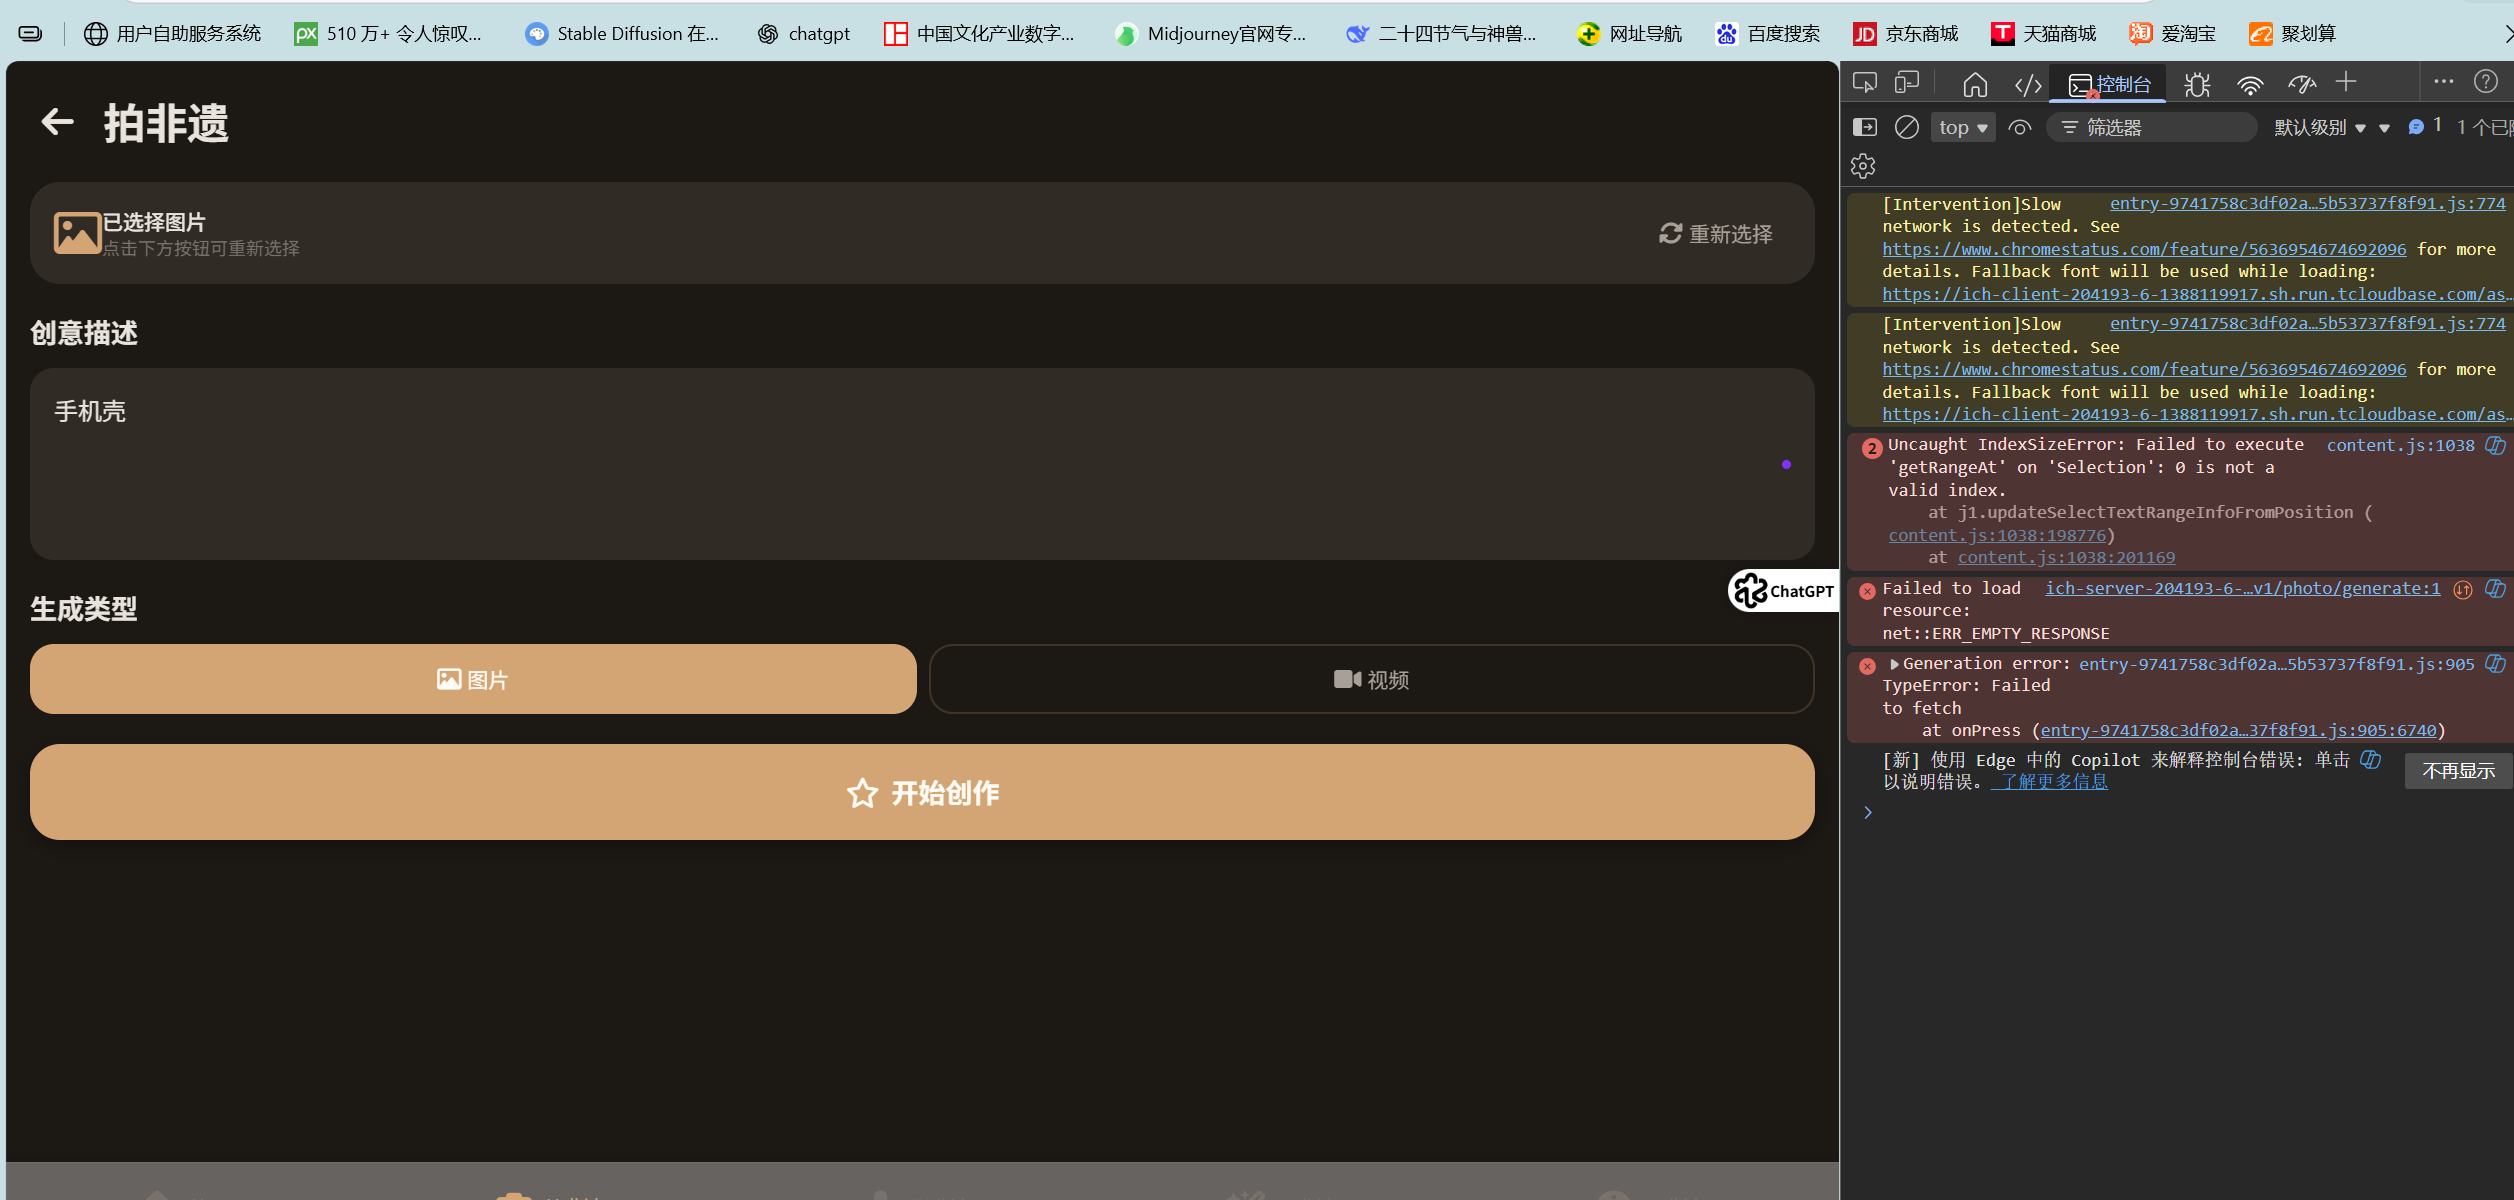
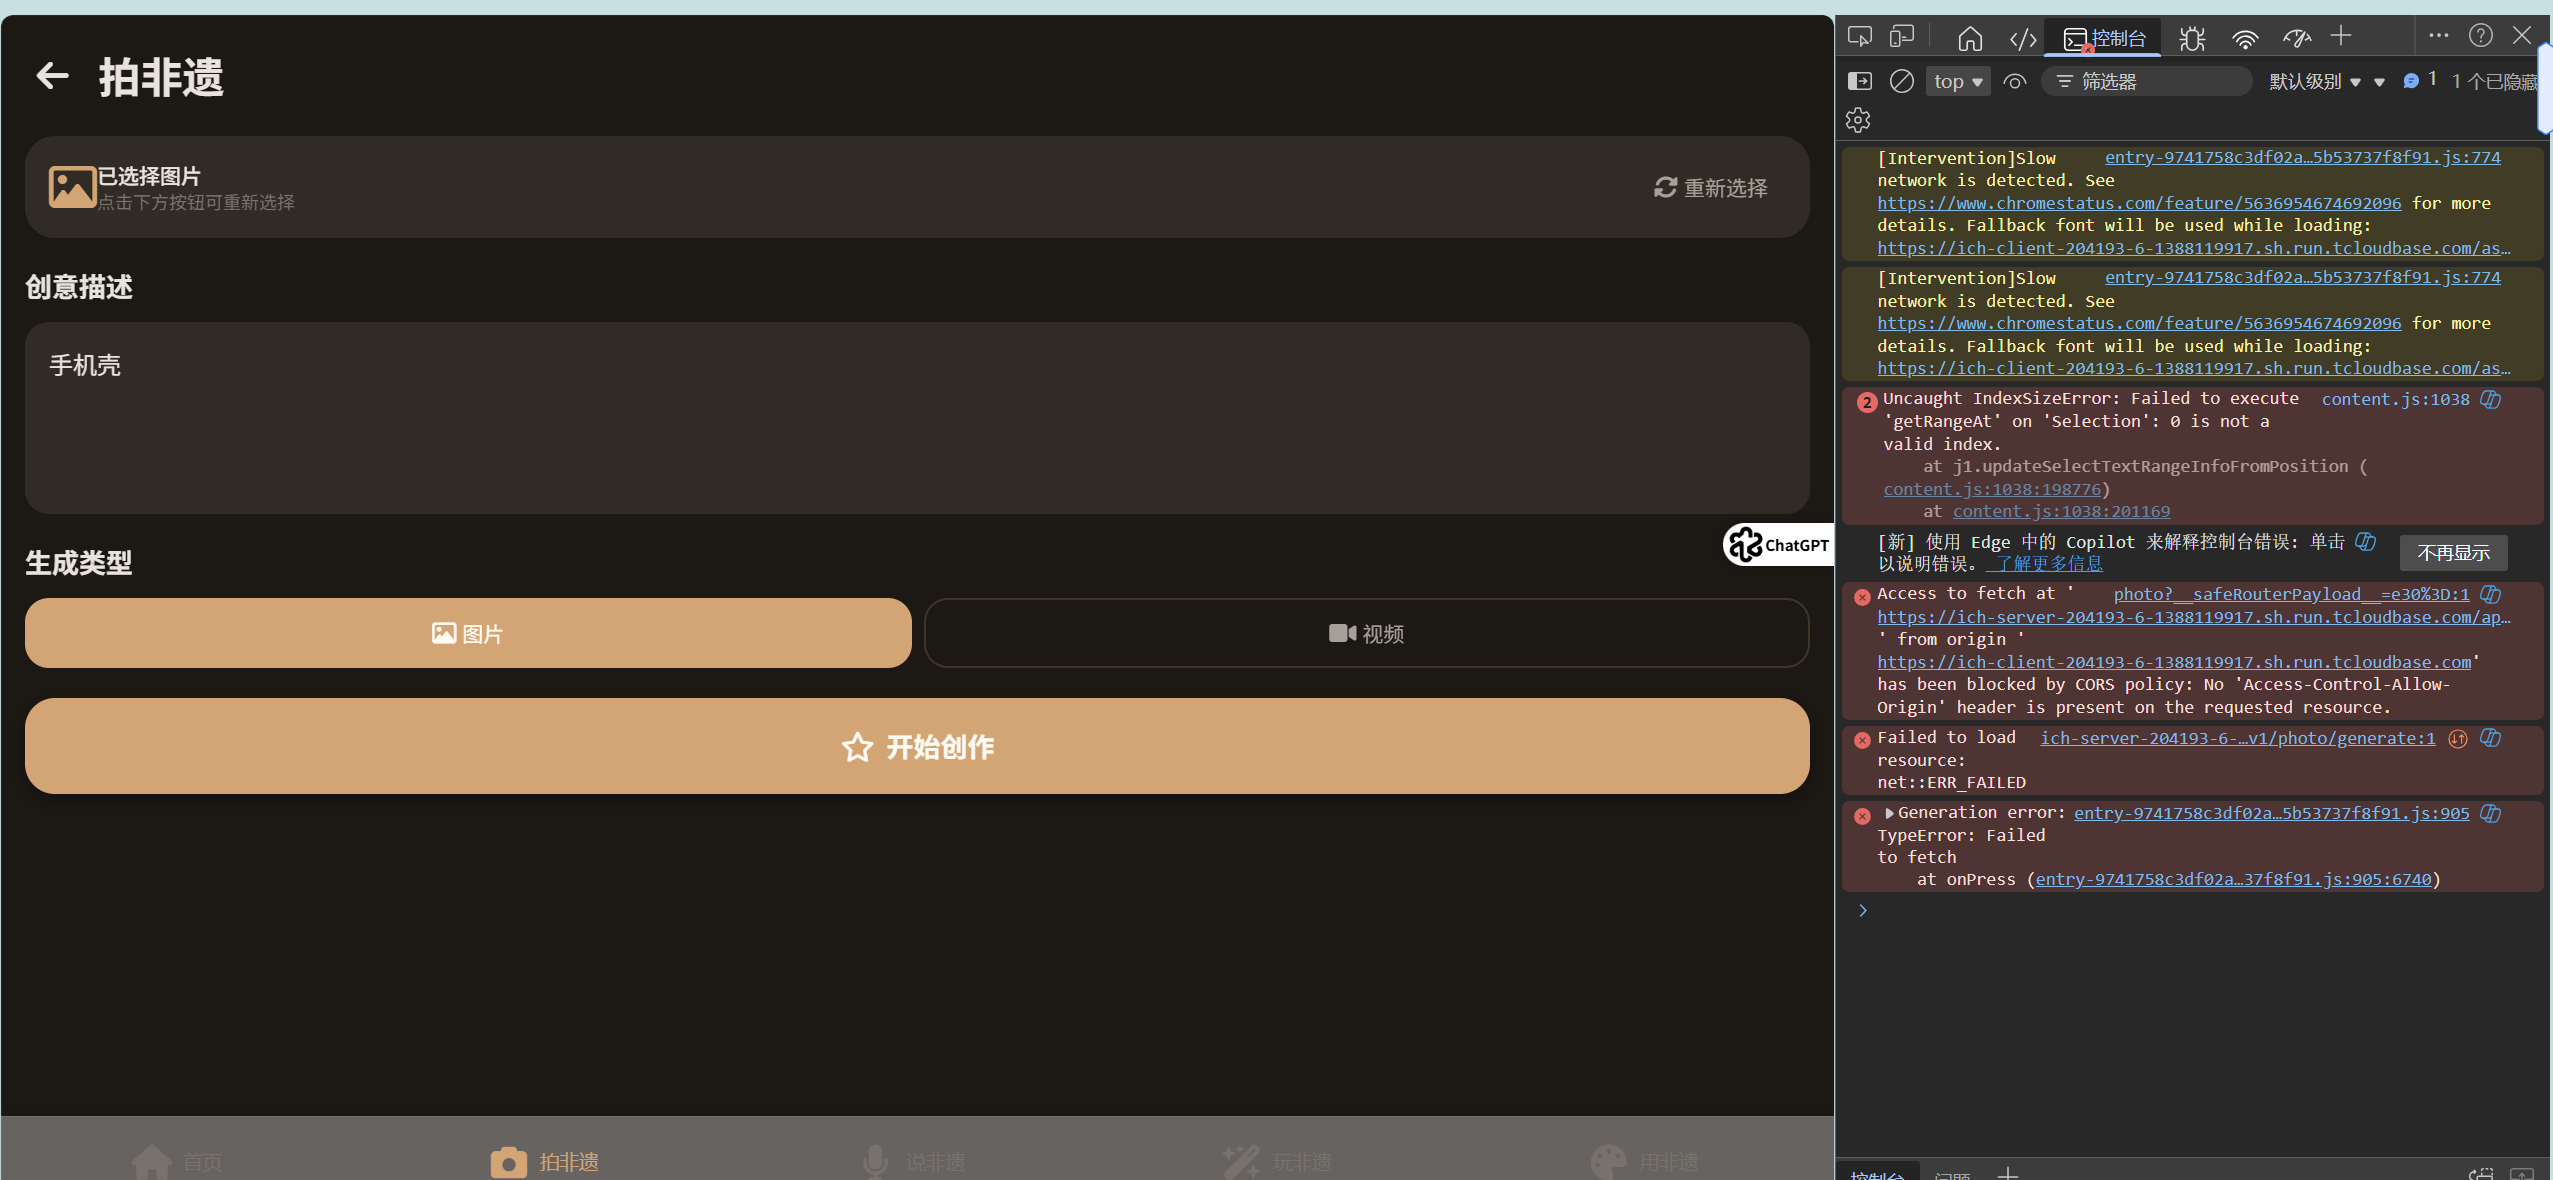
fix: 配置 CORS 允许前端域名跨域访问

Changed region(s): [[0.0, 0.0, 1.0, 1.0], [0.0, 0.9458, 0.7757, 1.0]]

diff --git a/server/src/index.ts b/server/src/index.ts
@@ -10,8 +10,20 @@ import favoritesRouter from "./routes/favorites";
 const app = express();
 const port = process.env.PORT || 9091;
 
+// CORS 配置 - 允许前端域名访问
+const corsOptions = {
+  origin: [
+    'https://ich-client-204193-6-1388119917.sh.run.tcloudbase.com',
+    'http://localhost:8081',
+    'http://localhost:19006',
+  ],
+  methods: ['GET', 'POST', 'PUT', 'DELETE', 'OPTIONS'],
+  allowedHeaders: ['Content-Type', 'Authorization'],
+  credentials: true,
+};
+
 // Middleware
-app.use(cors());
+app.use(cors(corsOptions));
 app.use(express.json({ limit: '50mb' }));
 app.use(express.urlencoded({ limit: '50mb', extended: true }));
 
